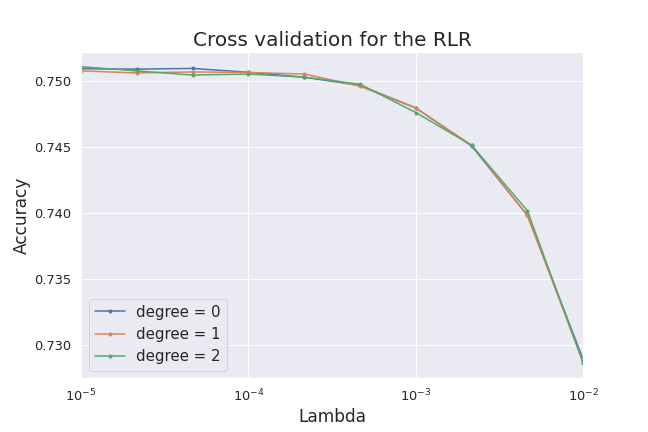
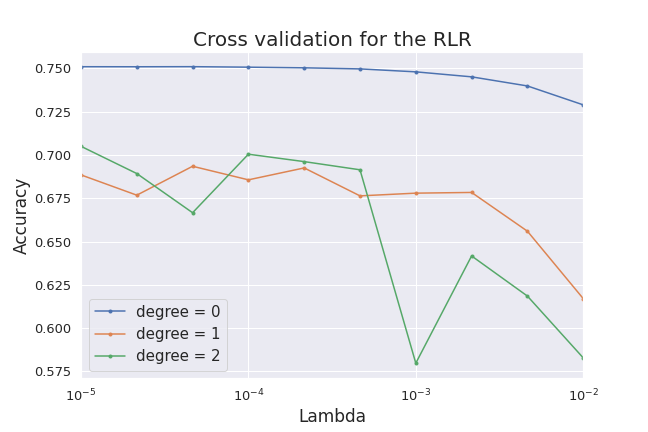
fix bag in the code

diff --git a/validation.py b/validation.py
@@ -192,7 +192,7 @@ def cross_validation_demo(type_, y, tx, bd_left, bd_right, seed, gammas=None, ma
                 elif type_ in ['RR']:
                     acc_ = cross_validation(type_=type_, y=y, x=tx, k_indices=k_indices, k=k, lambda_=param_2, degree=param_1)
                 elif type_ in ['RLR']:
-                    acc_ = cross_validation(type_=type_, y=y, x=tx, k_indices=k_indices, k=k, gamma = gammas, max_iters = max_iters, lambda_=param_2)
+                    acc_ = cross_validation(type_=type_, y=y, x=tx, k_indices=k_indices, k=k, gamma = gammas, max_iters = max_iters, lambda_=param_2, degree=param_1)
                 else:
                     raise TypeError(f"{type_} Wrong type!")
                 acc_batch.append(acc_)
